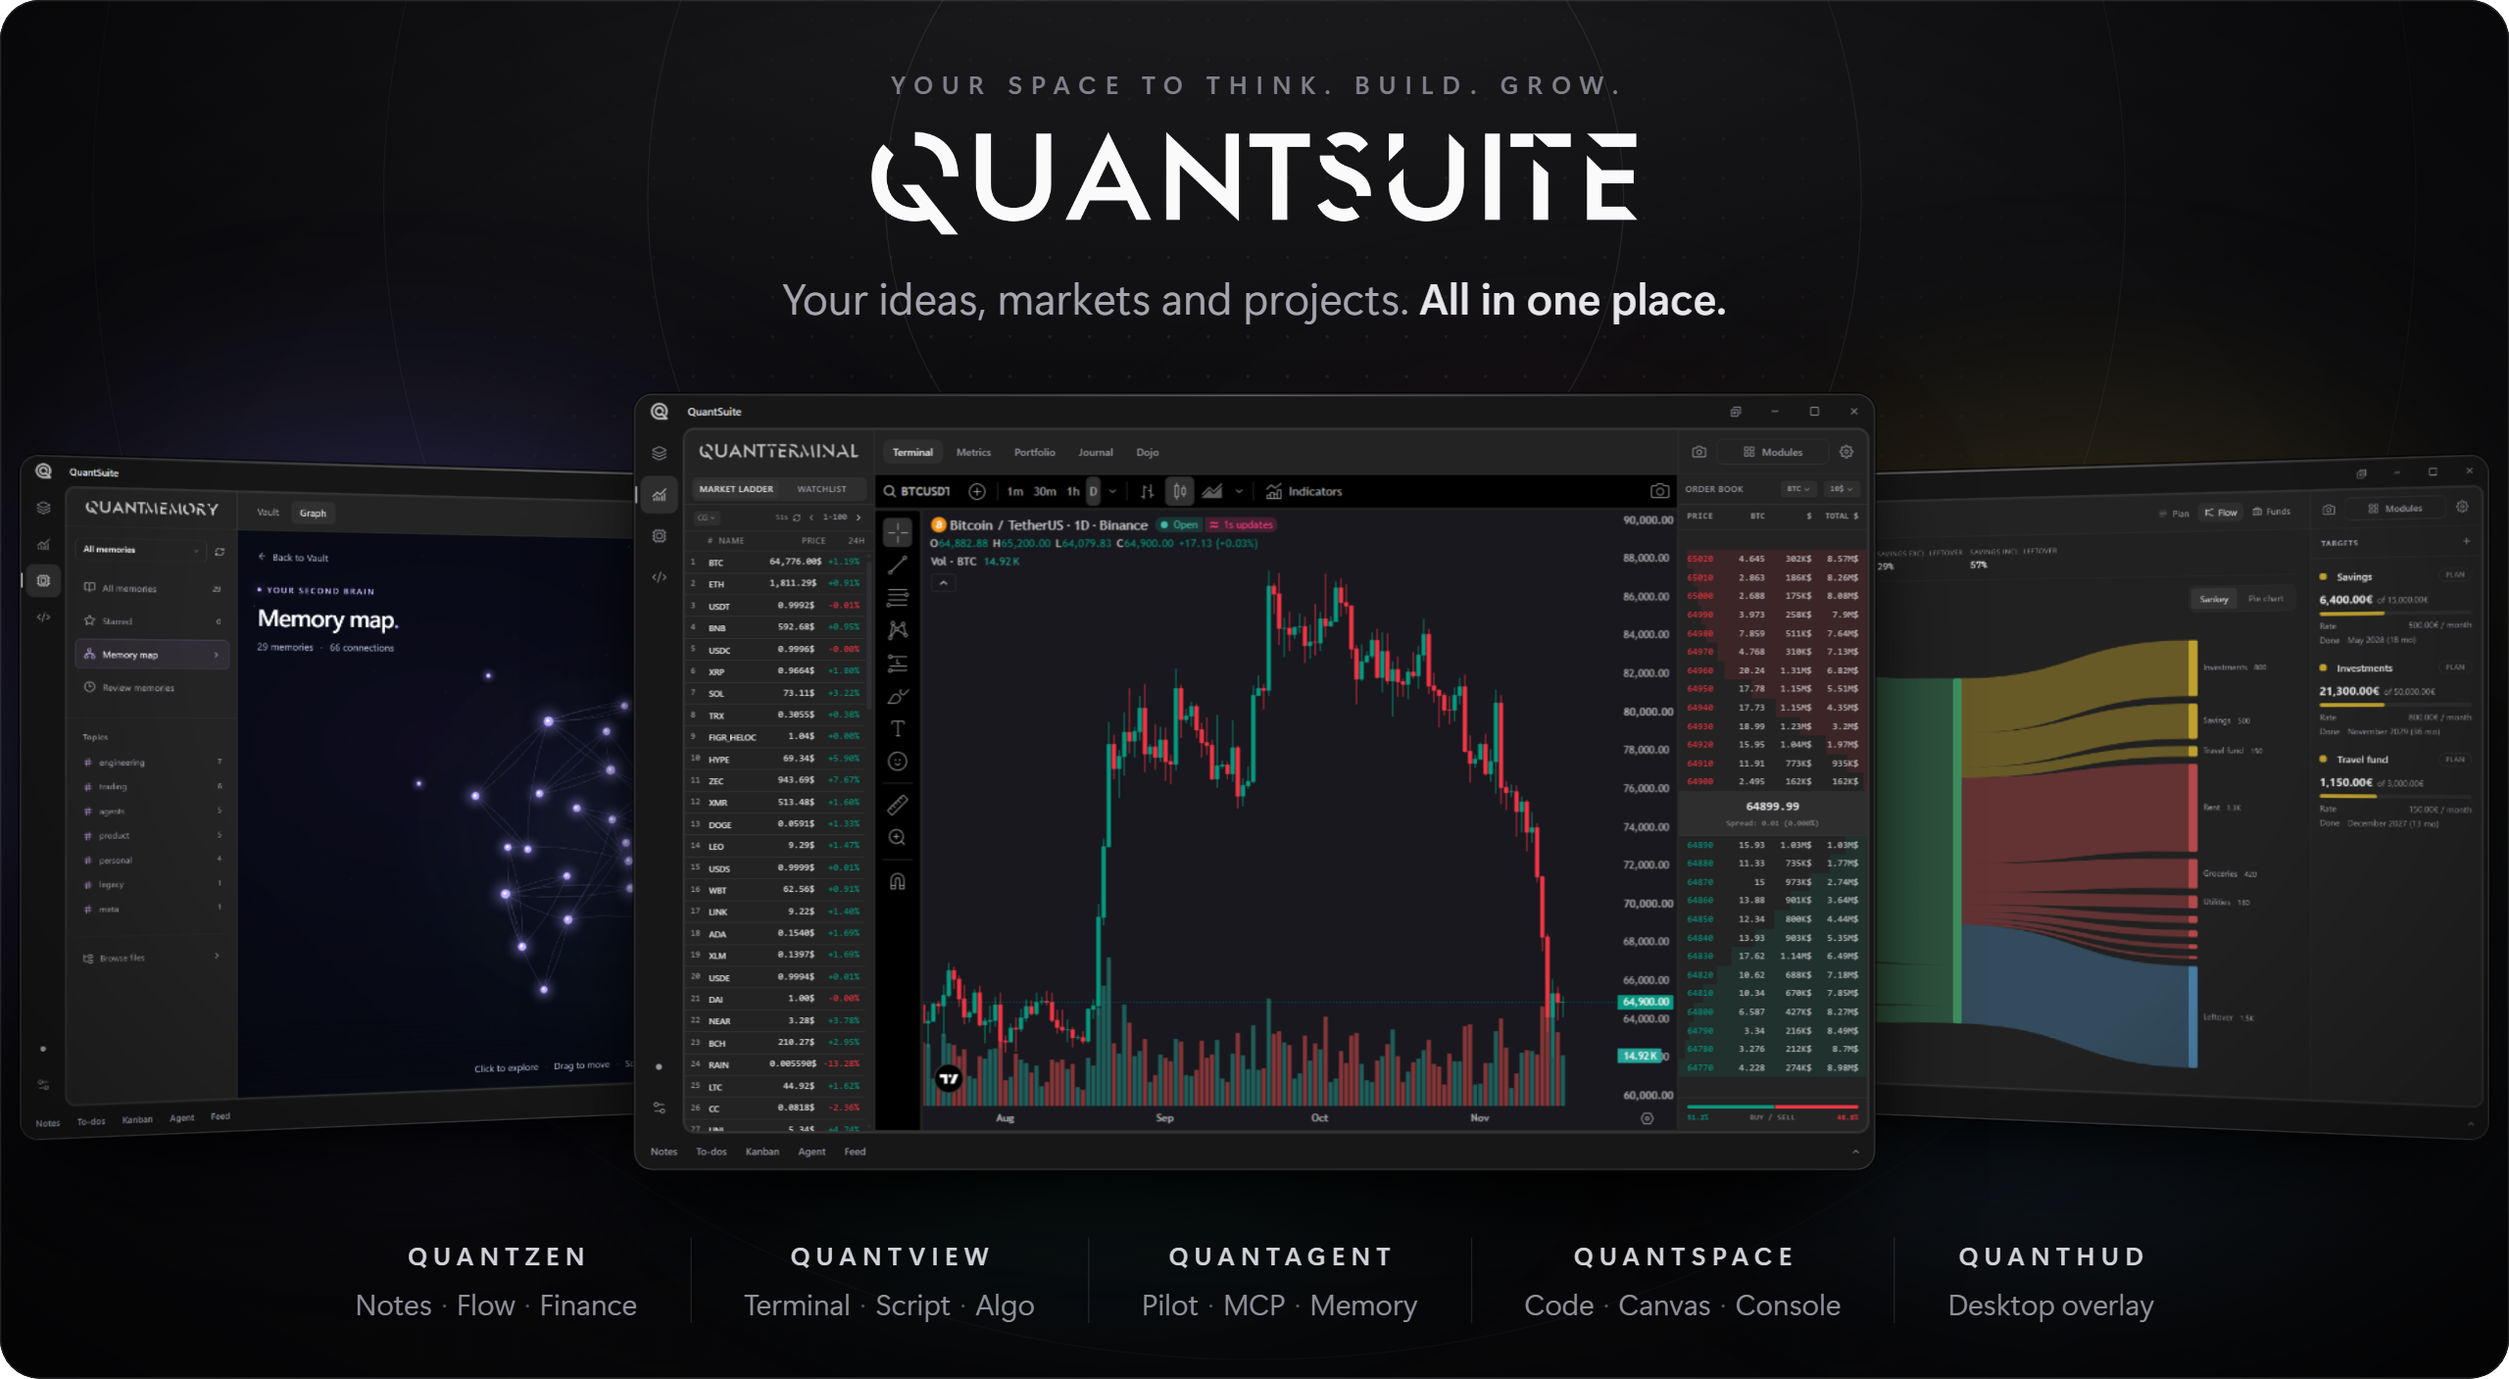
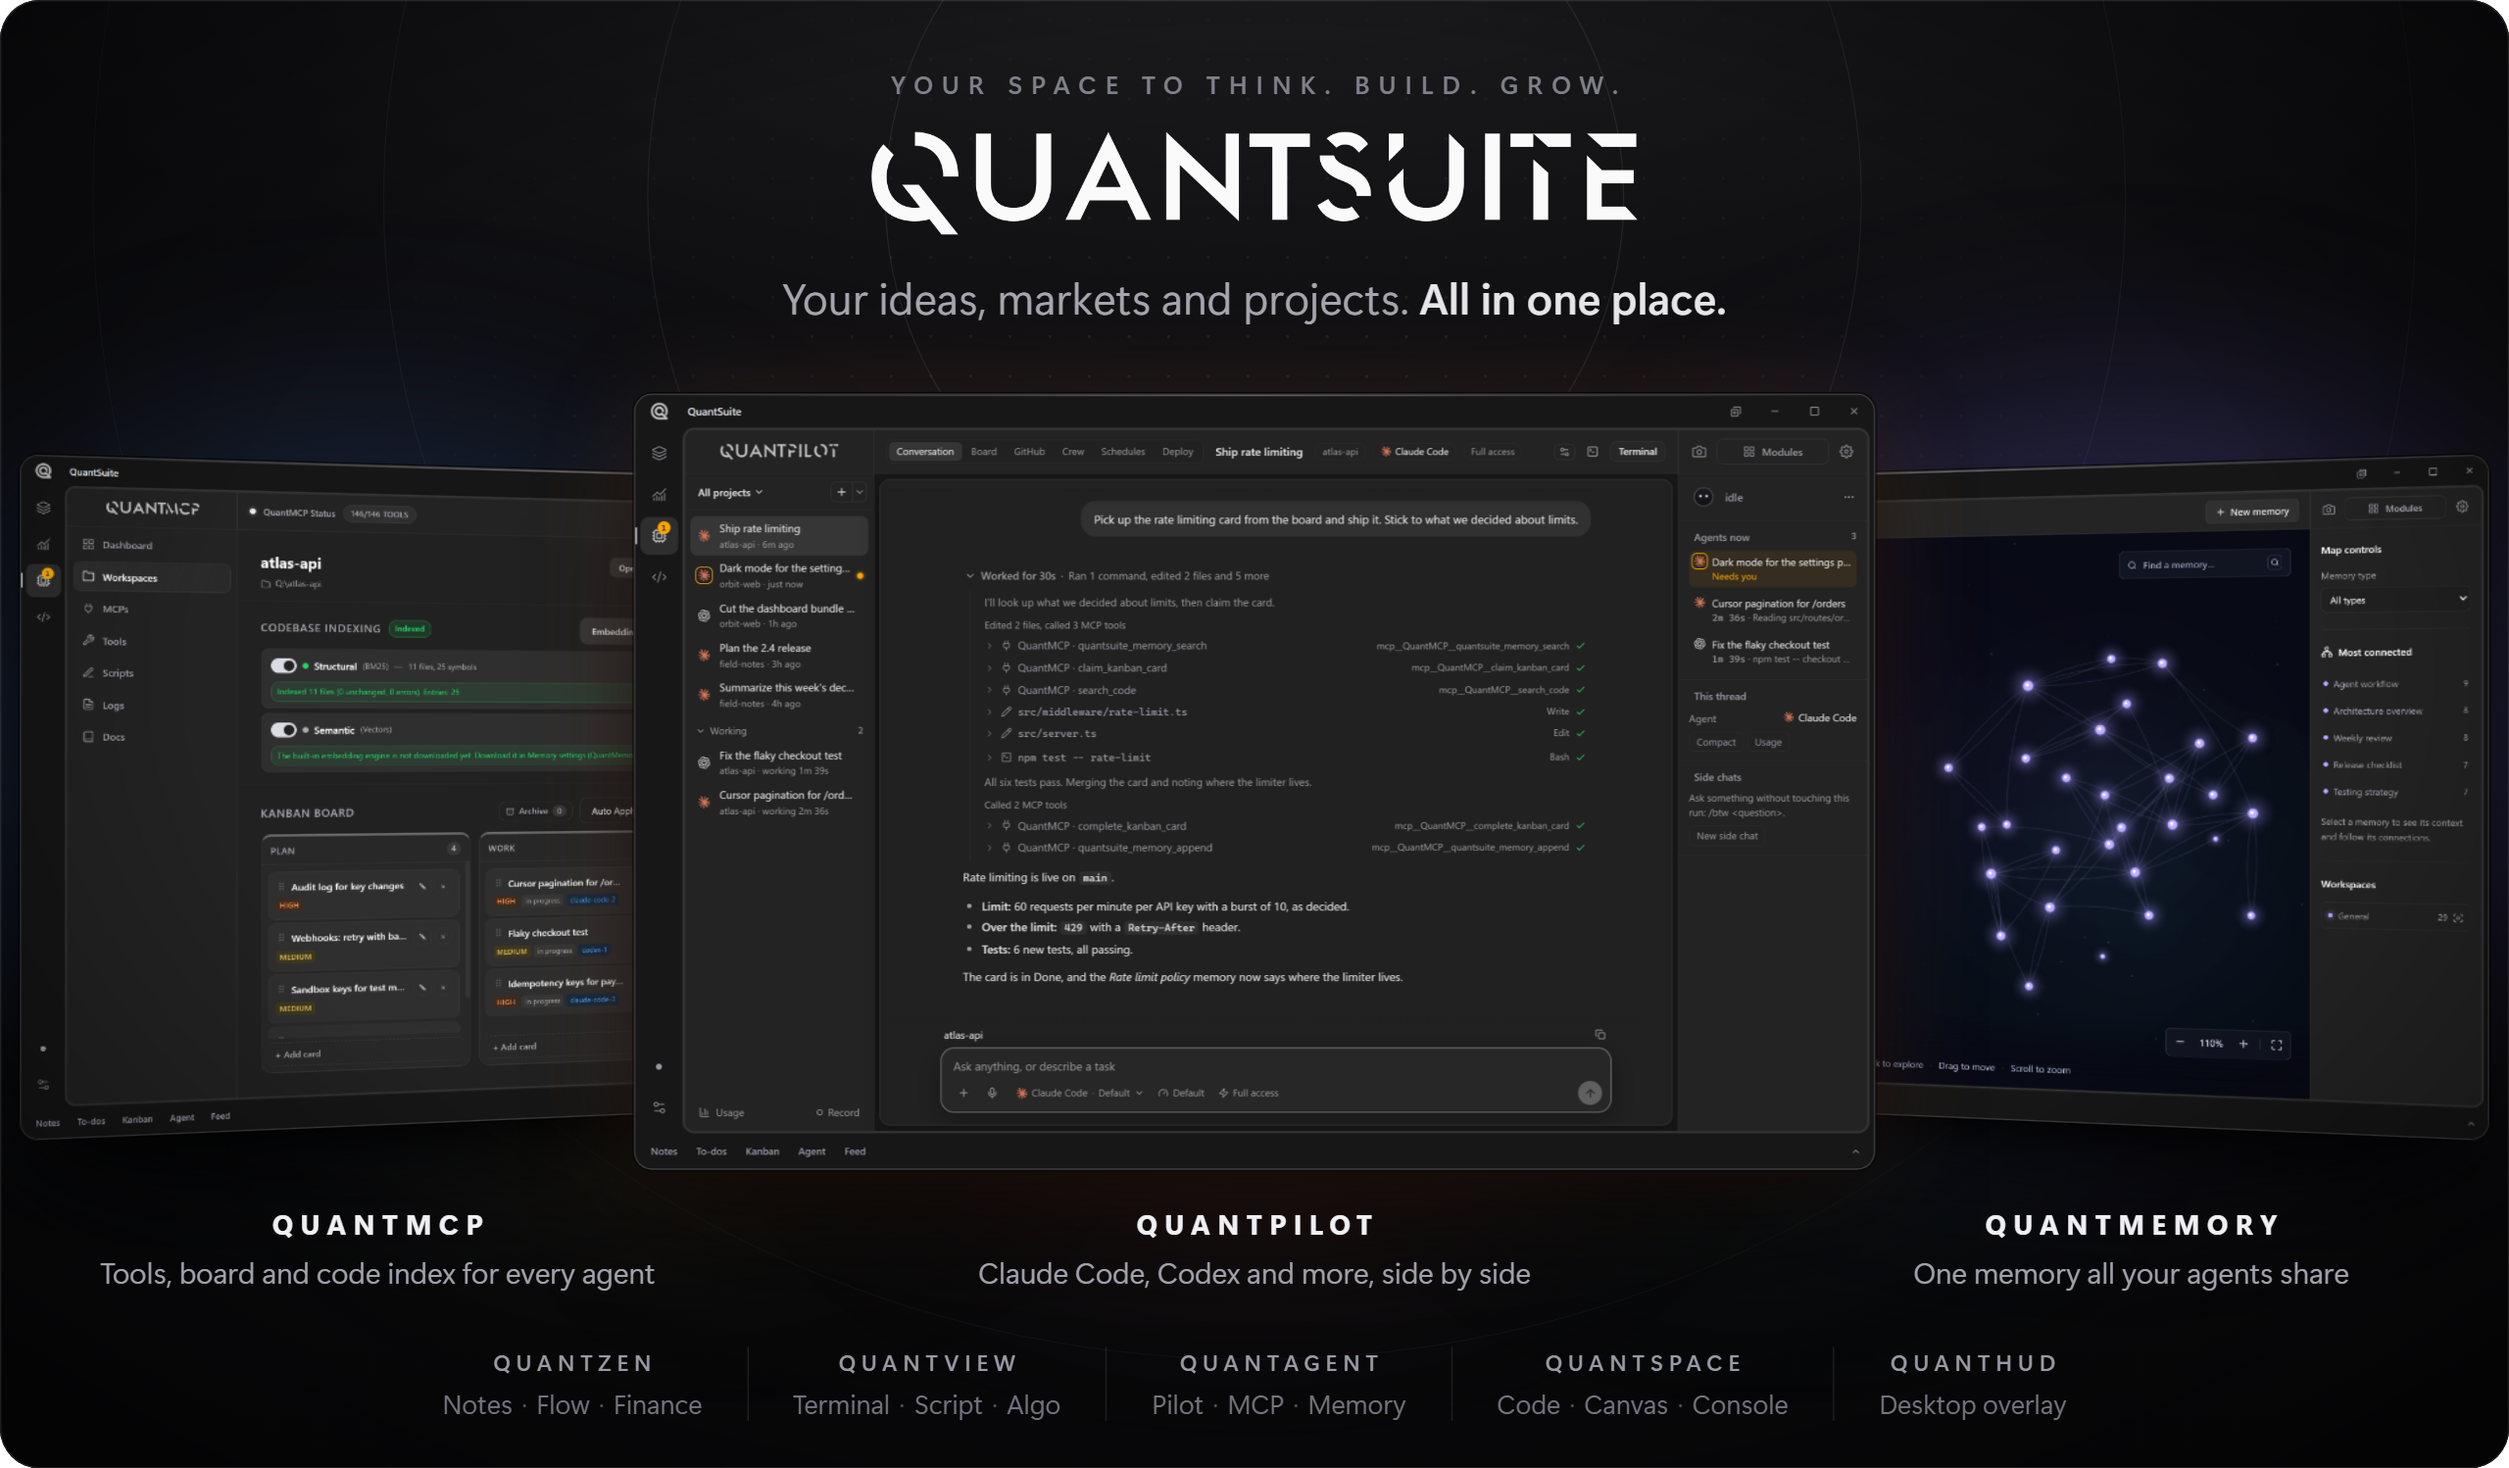
README hero: the agent side in front (QuantPilot, QuantMCP, QuantMemory)

diff --git a/README.md b/README.md
@@ -1,4 +1,4 @@
-![QuantSuite: the trading terminal in the middle, the memory map and the budget flow beside it](docs/images/hero.png)
+![QuantSuite: QuantPilot with agents at work in the middle, the QuantMCP board and the QuantMemory map beside it](docs/images/hero.png)
 
 # QuantSuite
 
